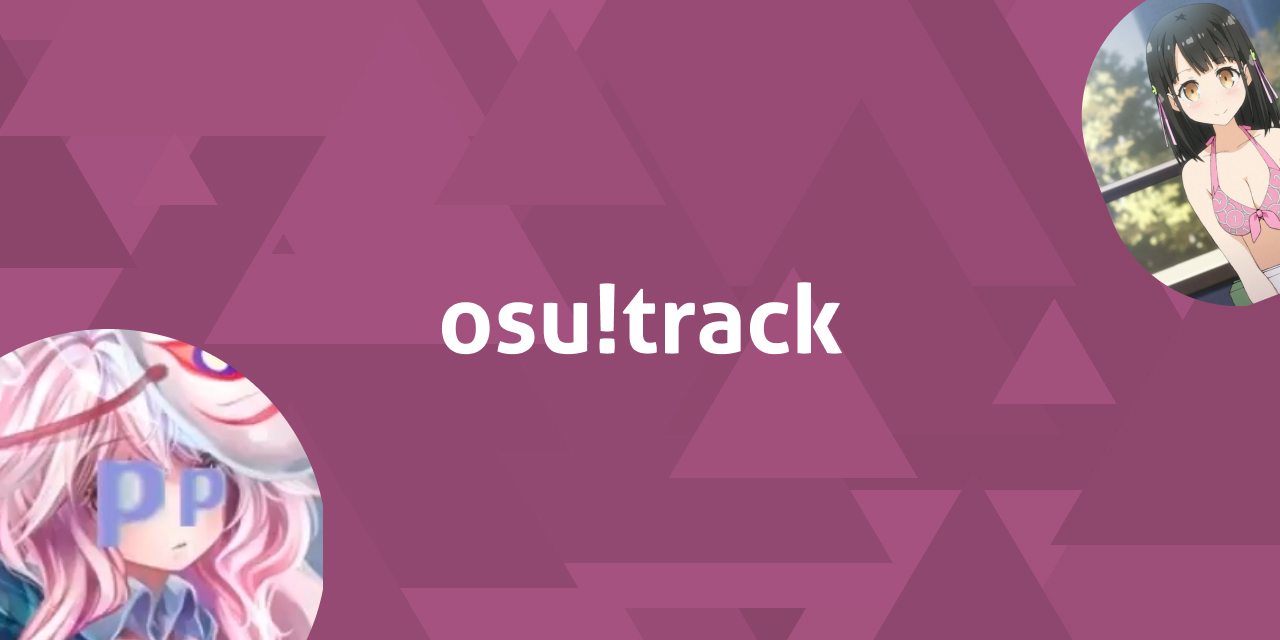
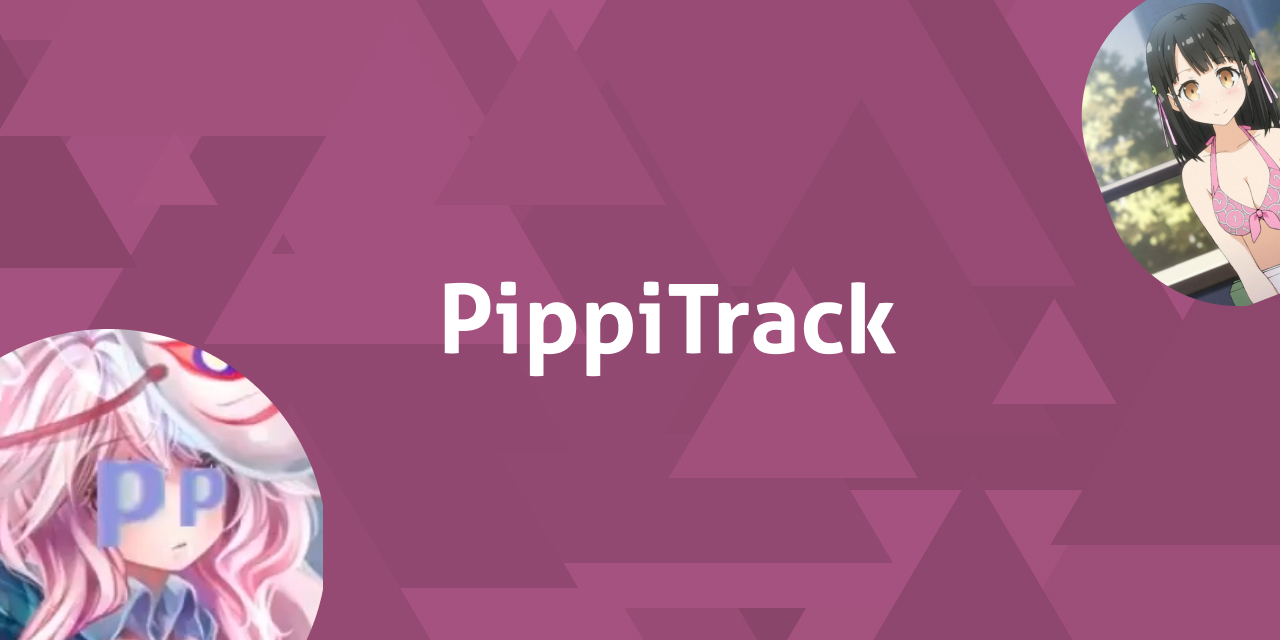
docs: add tracklist/untrack command and update cover

Changed region(s): [[0.3438, 0.4375, 0.7188, 0.5938]]

diff --git a/src/commands/Help.ts b/src/commands/Help.ts
@@ -2,6 +2,7 @@ import { Message, MessageEmbed } from 'discord.js'
 
 export default class Help {
   name = 'help'
+  arguments = []
   description = 'Display a help message'
   category = 'general'
 

diff --git a/README.md b/README.md
@@ -46,6 +46,24 @@ By default users can track themselves (will probably change in the near future) 
 
 Type `!set prefix <new prefix>` to change the bot's prefix.
 
+##### Show a list of tracked users
+
+Type `!tracklist <?page>` to show a list of tracked users.
+
+If you have more than 25 tracked users you can type `!tracklist 2` to show the second page.
+
+![link](.github/tracklist.png)
+
+##### Untrack a user
+
+There is 2 ways to untrack a user :
+
+![link](.github/untrack_1.png)
+
+![link](.github/untrack_2.png)
+
+> Note: You can mention the user to untrack or use the osu! username.
+
 #### For users
 
 Start by linking your Discord account to an osu! username like so :
